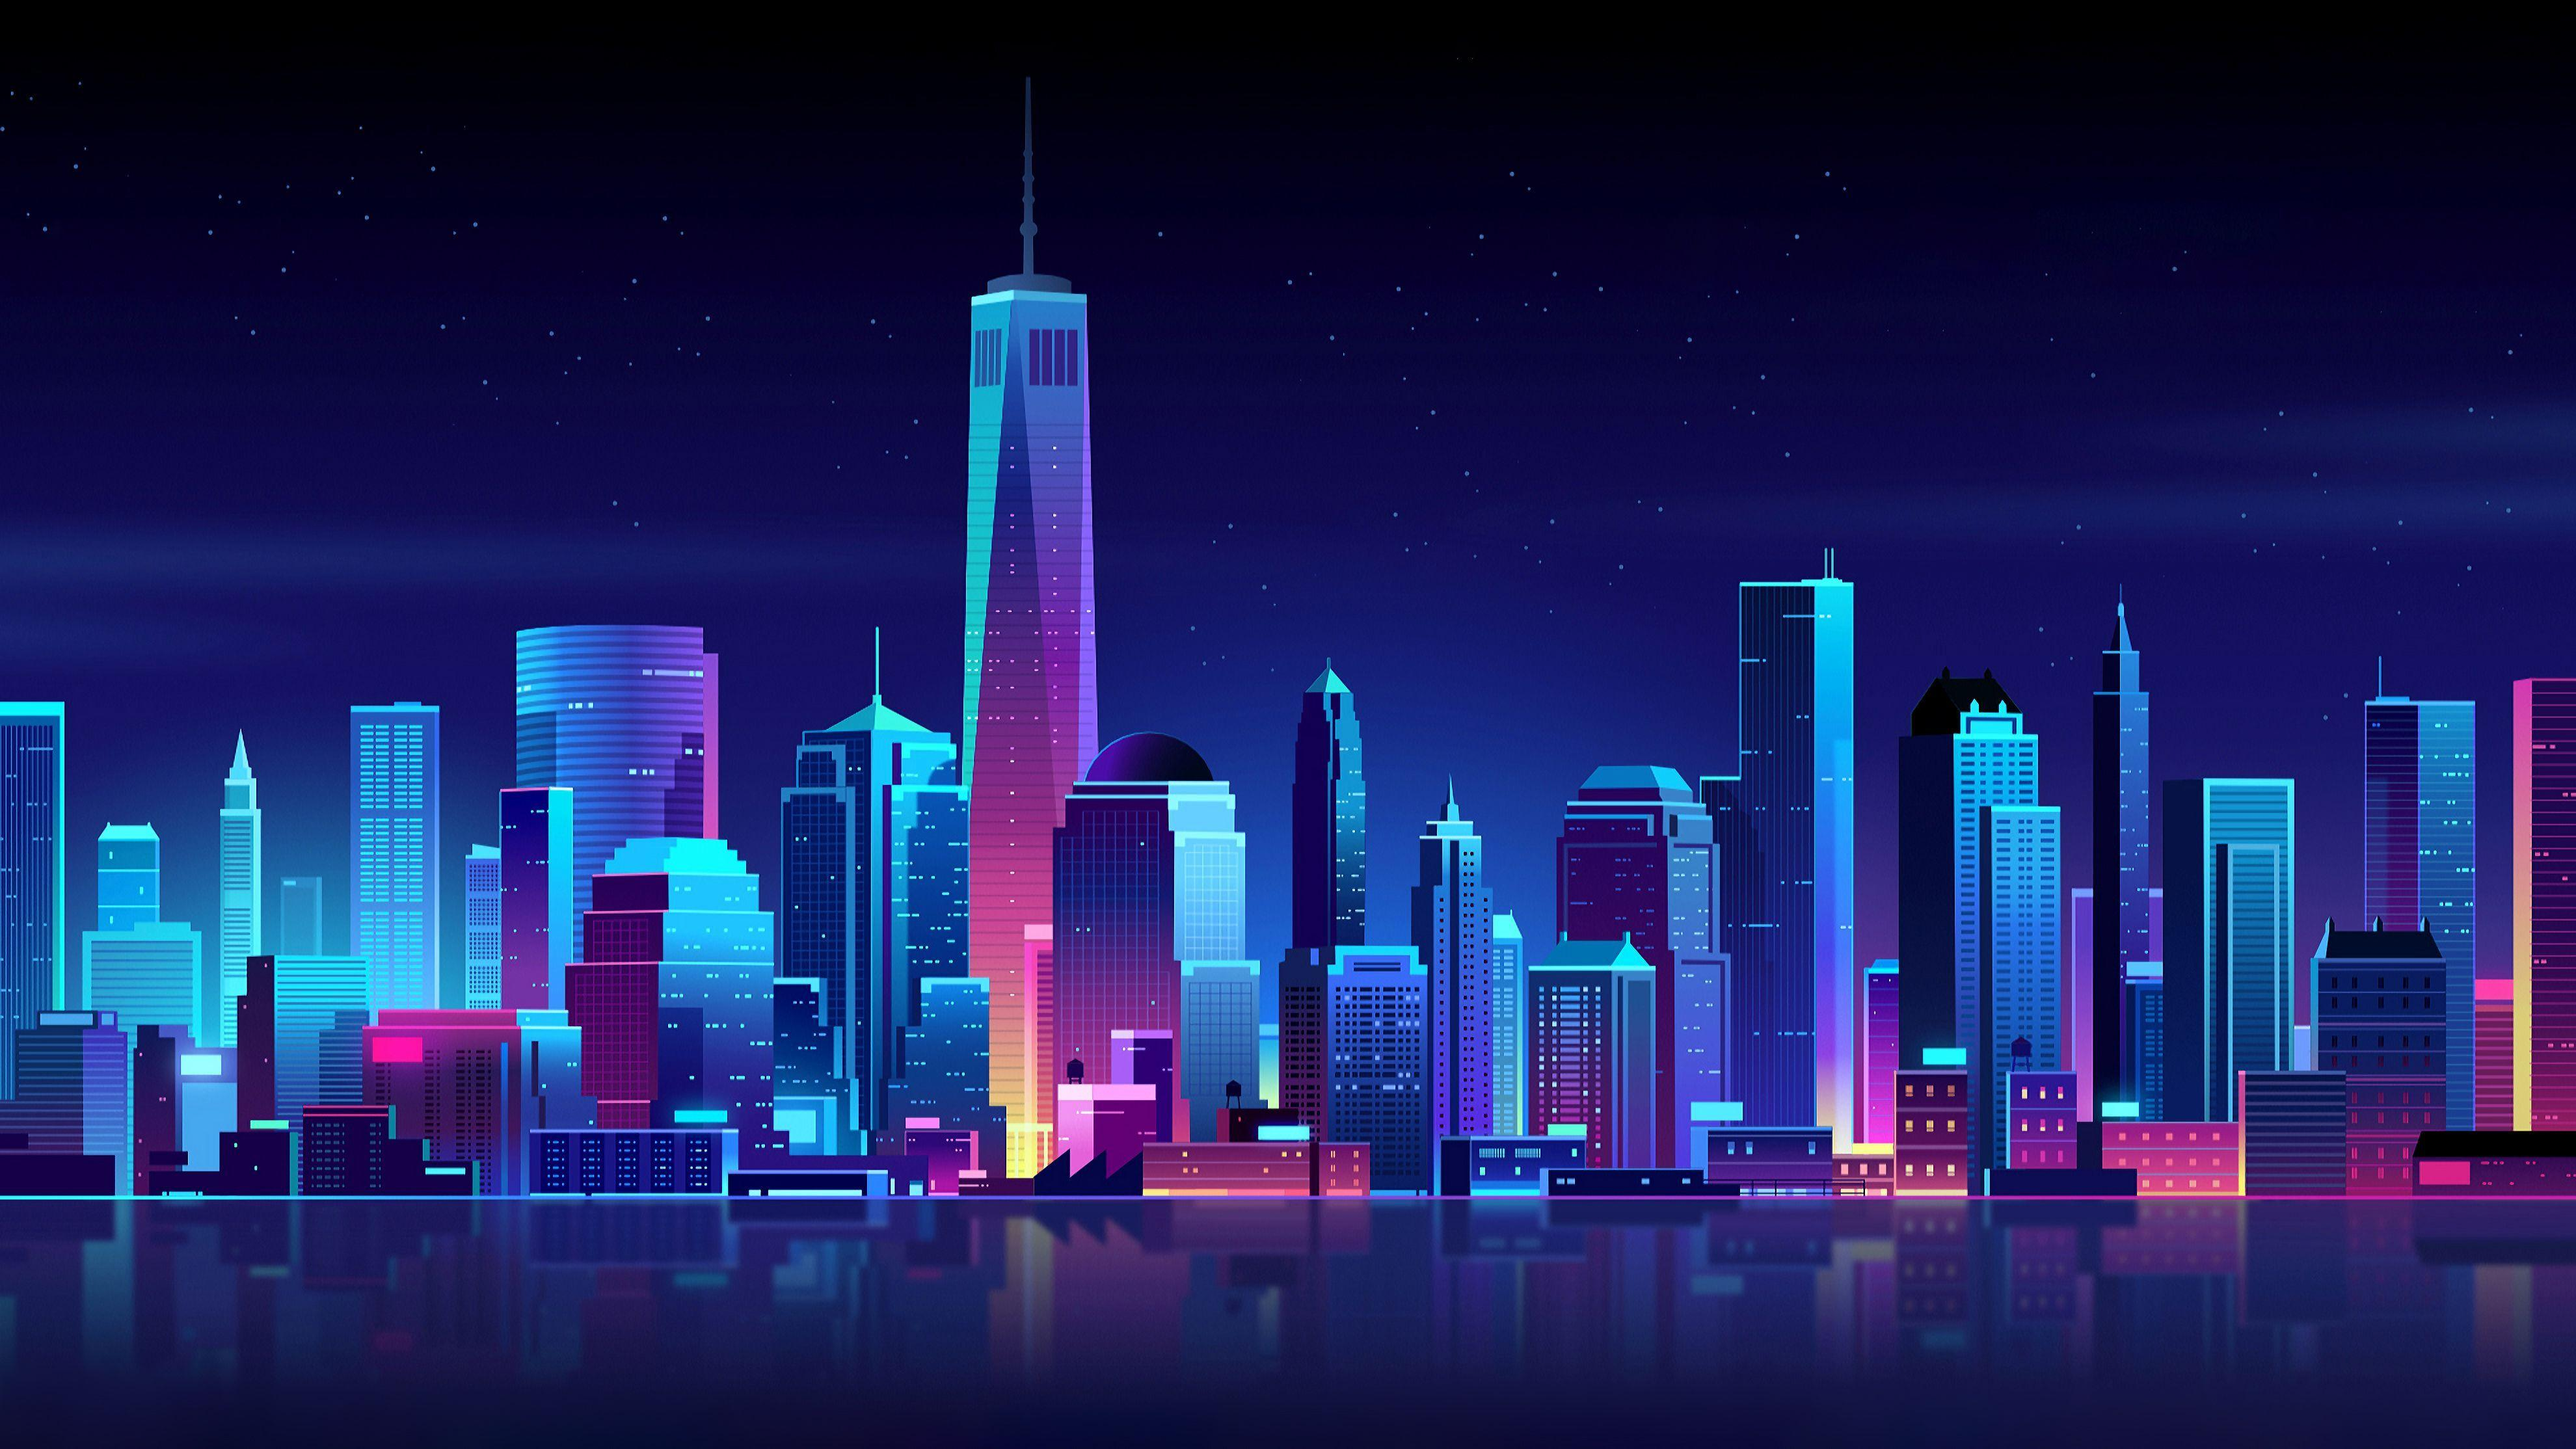
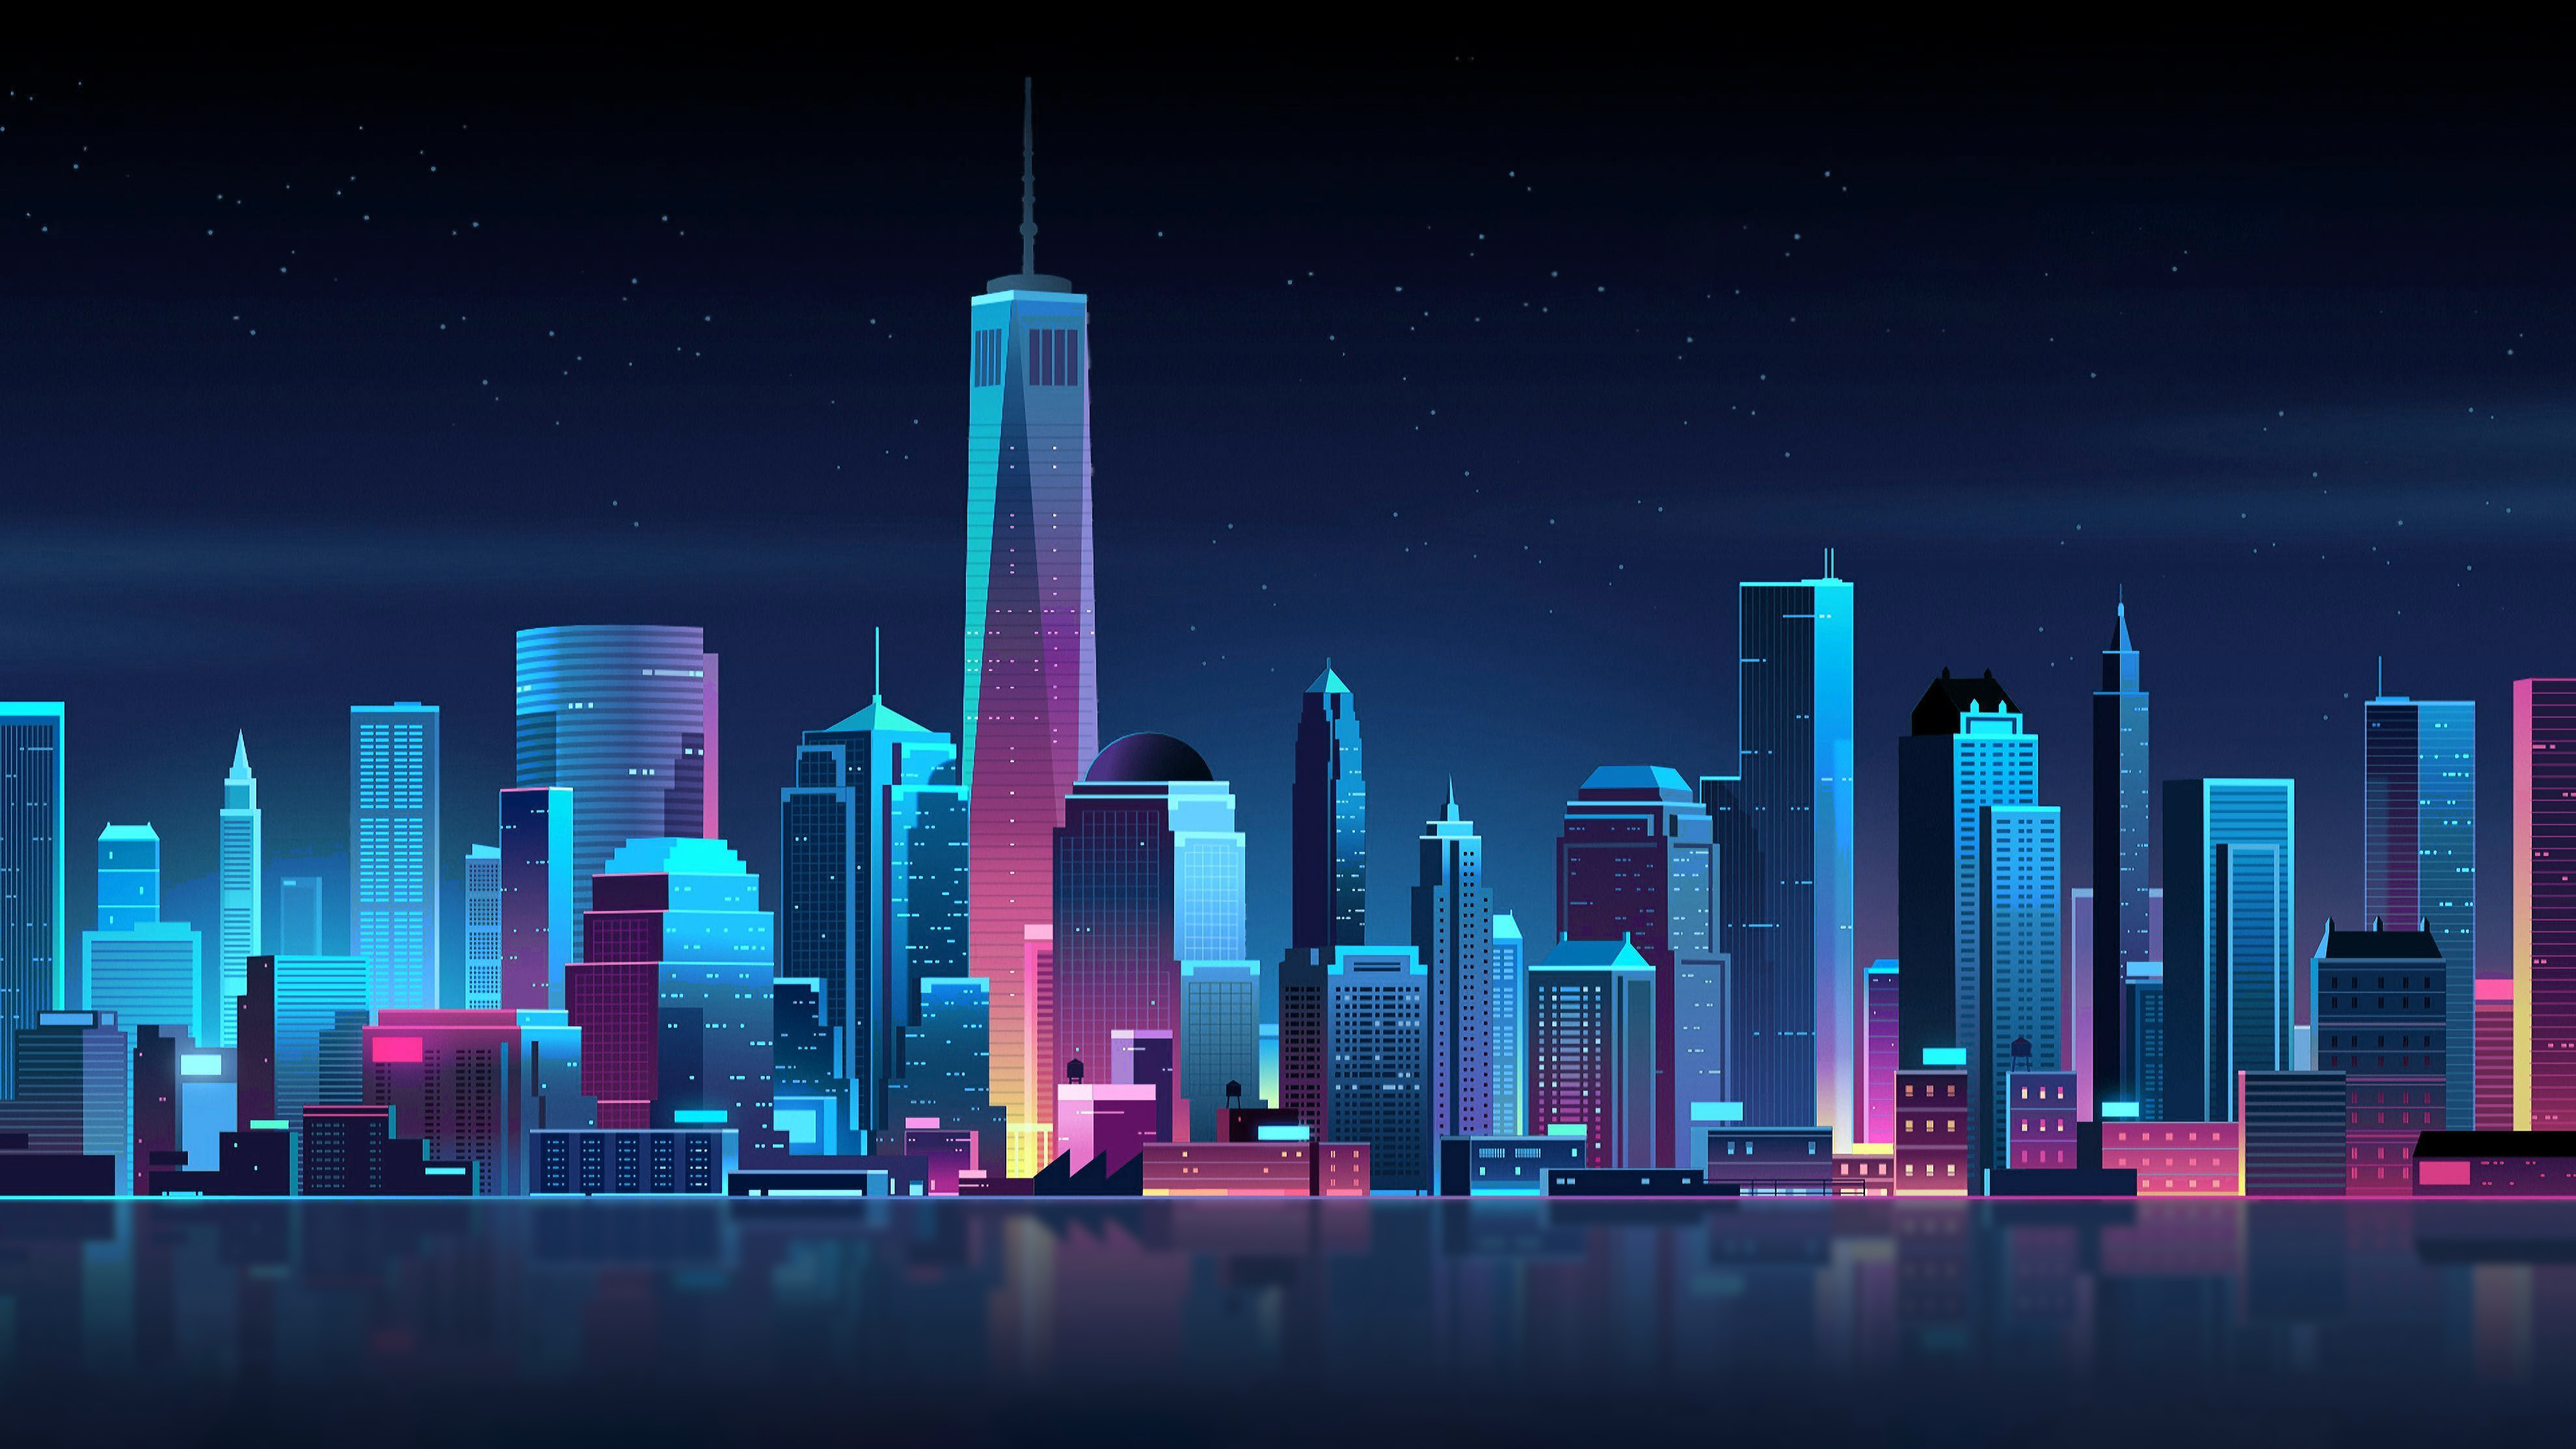
new wallpaper plus nf fix

Changed region(s): [[0.0, 0.2168, 0.9008, 0.8981], [0.9318, 0.5265, 0.9629, 0.8362]]

diff --git a/.config/qtile/config.py b/.config/qtile/config.py
@@ -12,10 +12,11 @@ terminal = "kitty"
 ###------------------------------------------###
 
 keys = [
-    Key([mod], "h", lazy.layout.left(), desc="Move focus to left"),
+    Key([mod], "j", lazy.layout.left(), desc="Move focus to left"),
     Key([mod], "l", lazy.layout.right(), desc="Move focus to right"),
-    Key([mod], "j", lazy.layout.down(), desc="Move focus down"),
-    Key([mod], "k", lazy.layout.up(), desc="Move focus up"),
+    Key([mod], "k", lazy.layout.down(), desc="Move focus down"),
+    Key([mod], "i", lazy.layout.up(), desc="Move focus up"),
+    Key([mod], "space", lazy.layout.flip(), desc="Flip"),
     Key([mod], "q", lazy.window.kill(), desc="Kill focused window"),
     
     Key([mod], "Return", lazy.spawn(terminal), desc="Launch terminal"),
@@ -33,42 +34,6 @@ keys = [
     Key([mod, "control", "shift"], "q", lazy.spawn("shutdown now"), desc="Shutdown PC"),
     Key([mod, "control", "shift"], "r", lazy.spawn("reboot"), desc="Reboot PC"),
 ]
-
-###------------------------------------------###
-
-'''
-foreground            #eff0eb
-background            #282a36
-selection_foreground  #000000
-selection_background  #FFFACD
-url_color             #0087BD
-cursor                #97979B
-cursor_text_color     #282A36
-# black
-color0   #282a36
-color8   #686868
-# red
-color1   #FF5C57
-color9   #FF5C57
-# green
-color2   #5AF78E
-color10  #5AF78E
-# yellow
-color3   #F3F99D
-color11  #F3F99D
-# blue
-color4  #57C7FF
-color12 #57C7FF
-# magenta
-color5   #FF6AC1
-color13  #FF6AC1
-# cyan
-color6   #9AEDFE
-color14  #9AEDFE:
-# white
-color7   #F1F1F0
-color15  #EFF0EB
-'''
 
 ###------------------------------------------###
 
@@ -94,7 +59,7 @@ layouts = [
 widget_defaults = dict(
     font="mononoki bold",
     fontsize=12,
-    padding=1,
+    padding=3,
 )
 extension_defaults = widget_defaults.copy()
 
@@ -132,8 +97,9 @@ screens = [
             24,
             margin = [10, 10, 0, 10],
             background = "#282a36",
+            opacity = 0.9,
         ),
-        wallpaper='~/.config/qtile/Wallpaper.jpg',
+        wallpaper='~/.config/qtile/Wallpaper.png',
         wallpaper_mode='fill',
     ),
     Screen(
@@ -154,8 +120,9 @@ screens = [
             24,
             margin = [10, 10, 0, 10],
             background = "#282a36",
+            opacity = 0.9,
         ),
-        wallpaper='~/.config/qtile/Wallpaper.jpg',
+        wallpaper='~/.config/qtile/Wallpaper.png',
         wallpaper_mode='fill',
     ),
 ]
